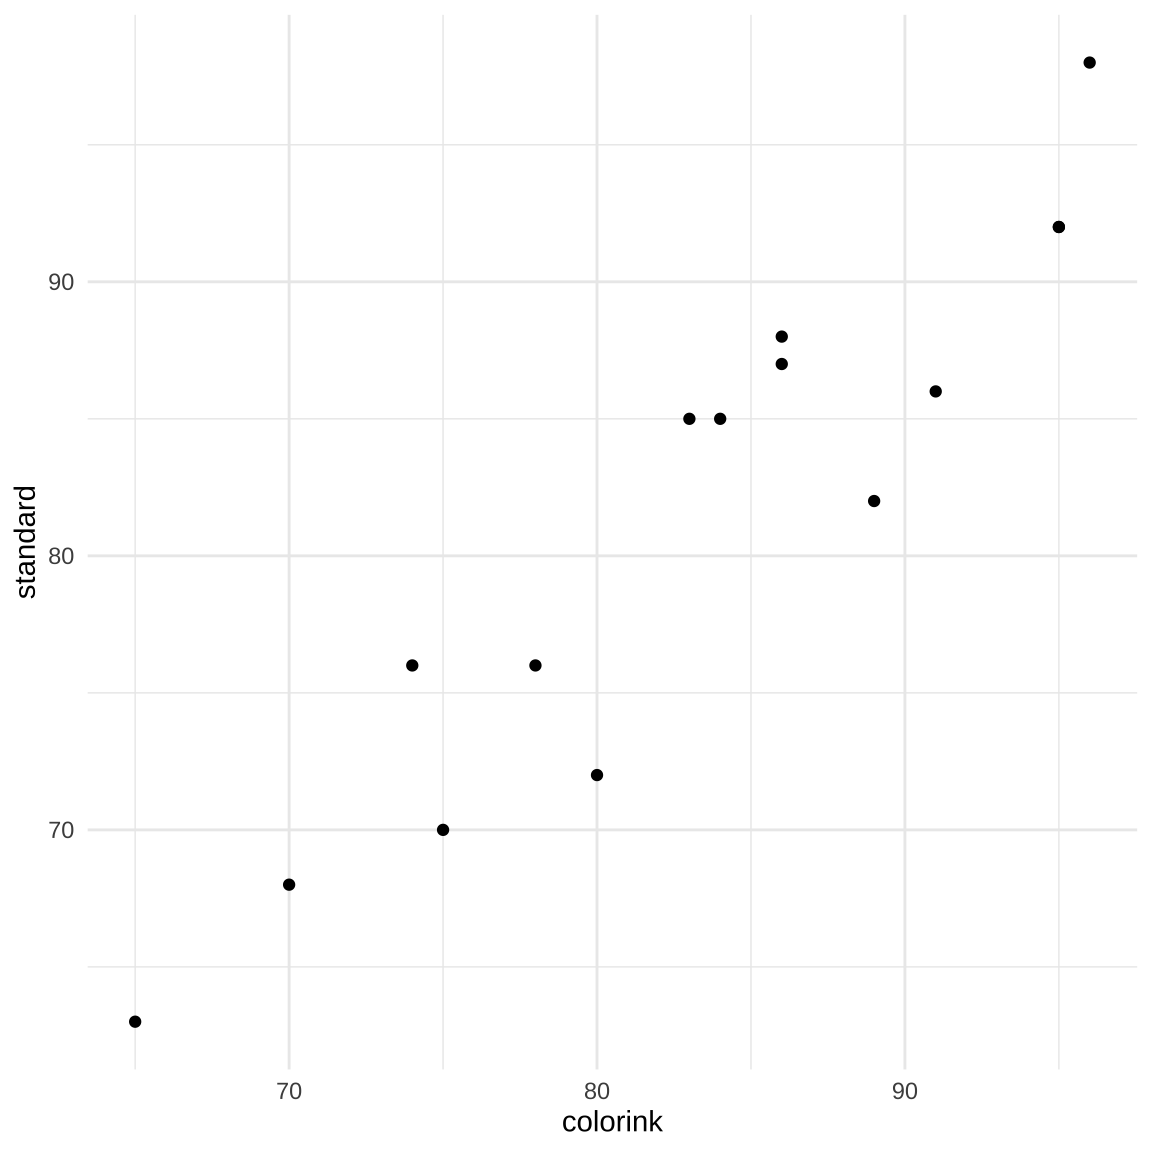
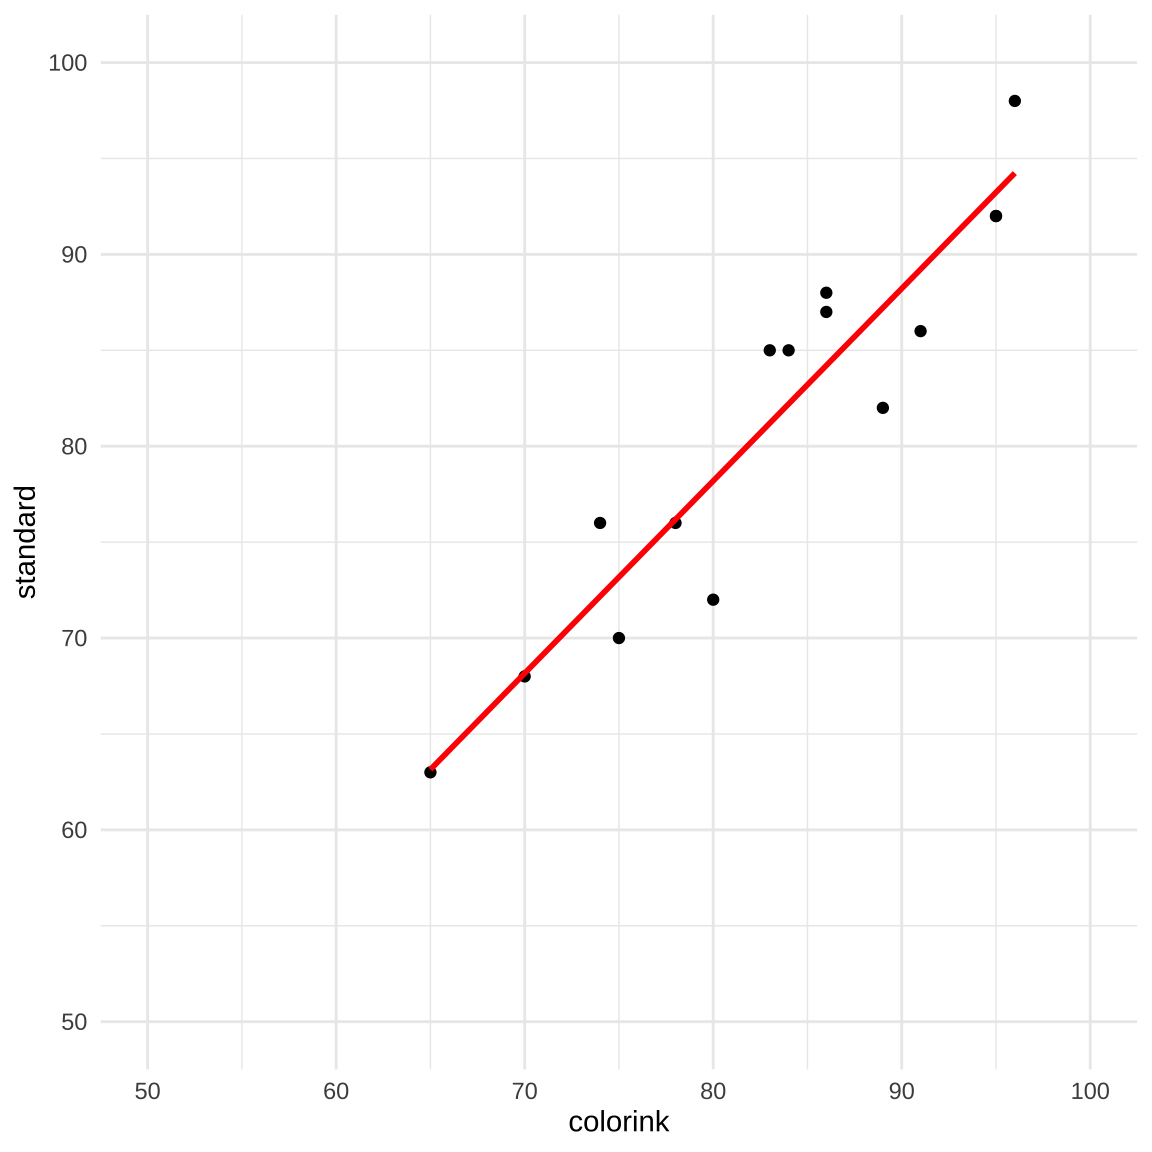
added text

diff --git a/docs/stat-modeling-outlier.html b/docs/stat-modeling-outlier.html
@@ -752,7 +752,7 @@ div.csl-indent {
 
 </header>
 
-<p><em>Letzte Änderung am 17. January 2024 um 21:02:34</em></p>
+<p><em>Letzte Änderung am 18. January 2024 um 18:51:18</em></p>
 <blockquote class="blockquote">
 <p><em>“You should be far more concentrated with your current trajectory than with your current results” — Atomic Habits’</em></p>
 </blockquote>
@@ -795,6 +795,12 @@ div.csl-indent {
 <blockquote class="blockquote">
 <p><em>” It may also make sense to report in an online supplement the details on every value or experiment removed as outliers, and to report in that supplement how the results would differ if outliers were not removed.”</em> — <span class="citation" data-cites="michel2020new">Michel u.&nbsp;a. (<a href="#ref-michel2020new" role="doc-biblioref">2020</a>)</span>, p.&nbsp;139</p>
 </blockquote>
+<p><span class="citation" data-cites="boukerche2020outlier">Boukerche u.&nbsp;a. (<a href="#ref-boukerche2020outlier" role="doc-biblioref">2020</a>)</span> und der wissenschaftlichen Veröffentlichung <a href="https://dl.acm.org/doi/abs/10.1145/3381028?casa_token=eXl2SvgkPNcAAAAA:Lgs0l4CXmw3mXyzSMVj9-_M2ry0F-lTyfsYUszWhkRJU9TNg5-JjzCaBaOeFSVifSCkvoyQdeuCvvQ">Outlier Detection: Methods, Models, and Classification</a></p>
+<p><span class="citation" data-cites="zimek2018there">Zimek und Filzmoser (<a href="#ref-zimek2018there" role="doc-biblioref">2018</a>)</span> und der Veröffentlichung <a href="https://findresearcher.sdu.dk/ws/files/153197807/There_and_Back_Again.pdf">There and back again: Outlier detection between statistical reasoning and data mining algorithms</a></p>
+<blockquote class="blockquote">
+<p><em>“‘an observation (or subset of observations) which appears to be inconsistent with the remainder of that set of data’. In about two decades of research in data mining many methods have been proposed to identify such outliers. Much attention has been spent on doing this ever faster, less attention has been attributed to the description ‘appears to’.”</em> — <span class="citation" data-cites="zimek2018there">Zimek und Filzmoser (<a href="#ref-zimek2018there" role="doc-biblioref">2018</a>)</span></p>
+</blockquote>
+<p><span class="citation" data-cites="sejr2021explainable">Sejr und Schneider-Kamp (<a href="#ref-sejr2021explainable" role="doc-biblioref">2021</a>)</span> mit Veröffentlichung <a href="https://www.sciencedirect.com/science/article/pii/S2666827021000864">Explainable outlier detection: What, for Whom and Why?</a></p>
 <p>Siehe dazu auch das Kapitel der <a href="stat-modeling-sensitivity.html">Sensitivitätsanalyse</a>. Nachdem wir Beobachtungen aus unseren Daten entfernt haben, ist es häufig üblich noch eine Sensitivitätsanalysen durchzuführen. Wir Vergleich dann das <em>gereinigte</em> Modell mit <em>anderen</em> Modellen. Oder wir wollen die Frage beantworten, was hat eigentlich mein Entfernen von Ausreißern am Ergebnis geändert? Habe ich eine wichtige Beobachtung rausgeschmissen? Am Ende musst dud ann natürlich enstscheiden, ob das Ergebnis ohne Ausreißer biologisch sinnvoller ist als das Experiment mit Ausreißern. Besonders wenn dann auch andere Ergbnisse rauskommen.</p>
 <div class="callout callout-style-default callout-tip callout-titled">
 <div class="callout-header d-flex align-content-center">
@@ -1498,15 +1504,16 @@ Anwendungsbeispiel: Ausreißer in einer simplen Regression
 <div class="sourceCode cell-code" id="cb37"><pre class="sourceCode r code-with-copy"><code class="sourceCode r"><span id="cb37-1"><a href="#cb37-1" aria-hidden="true" tabindex="-1"></a>standard_colorink_tbl <span class="sc">%&gt;%</span> </span>
 <span id="cb37-2"><a href="#cb37-2" aria-hidden="true" tabindex="-1"></a>  <span class="fu">ggplot</span>(<span class="fu">aes</span>(colorink, standard)) <span class="sc">+</span></span>
 <span id="cb37-3"><a href="#cb37-3" aria-hidden="true" tabindex="-1"></a>  <span class="fu">theme_minimal</span>() <span class="sc">+</span></span>
-<span id="cb37-4"><a href="#cb37-4" aria-hidden="true" tabindex="-1"></a>  <span class="co">#ylim(0, 100) + xlim(0, 100) +</span></span>
+<span id="cb37-4"><a href="#cb37-4" aria-hidden="true" tabindex="-1"></a>  <span class="fu">ylim</span>(<span class="dv">50</span>, <span class="dv">100</span>) <span class="sc">+</span> <span class="fu">xlim</span>(<span class="dv">50</span>, <span class="dv">100</span>) <span class="sc">+</span></span>
 <span id="cb37-5"><a href="#cb37-5" aria-hidden="true" tabindex="-1"></a>  <span class="fu">geom_point</span>() <span class="sc">+</span></span>
-<span id="cb37-6"><a href="#cb37-6" aria-hidden="true" tabindex="-1"></a>  <span class="fu">geom_line</span>(<span class="fu">aes</span>(<span class="at">y =</span> <span class="fu">predict</span>(fit)), <span class="at">color =</span> <span class="st">"red"</span>)</span>
+<span id="cb37-6"><a href="#cb37-6" aria-hidden="true" tabindex="-1"></a>  <span class="fu">geom_smooth</span>(<span class="at">method =</span> <span class="st">"lm"</span>, <span class="at">color =</span> <span class="st">"red"</span>, <span class="at">se =</span> <span class="cn">FALSE</span>)</span>
 <span id="cb37-7"><a href="#cb37-7" aria-hidden="true" tabindex="-1"></a></span>
 <span id="cb37-8"><a href="#cb37-8" aria-hidden="true" tabindex="-1"></a>clean_tbl <span class="sc">%&gt;%</span> </span>
 <span id="cb37-9"><a href="#cb37-9" aria-hidden="true" tabindex="-1"></a>  <span class="fu">ggplot</span>(<span class="fu">aes</span>(colorink, standard)) <span class="sc">+</span></span>
 <span id="cb37-10"><a href="#cb37-10" aria-hidden="true" tabindex="-1"></a>  <span class="fu">theme_minimal</span>() <span class="sc">+</span></span>
-<span id="cb37-11"><a href="#cb37-11" aria-hidden="true" tabindex="-1"></a>  <span class="co">#ylim(0, 100) + xlim(0, 100) +</span></span>
-<span id="cb37-12"><a href="#cb37-12" aria-hidden="true" tabindex="-1"></a>  <span class="fu">geom_point</span>() </span></code><button title="In die Zwischenablage kopieren" class="code-copy-button"><i class="bi"></i></button></pre></div>
+<span id="cb37-11"><a href="#cb37-11" aria-hidden="true" tabindex="-1"></a>  <span class="fu">ylim</span>(<span class="dv">50</span>, <span class="dv">100</span>) <span class="sc">+</span> <span class="fu">xlim</span>(<span class="dv">50</span>, <span class="dv">100</span>) <span class="sc">+</span></span>
+<span id="cb37-12"><a href="#cb37-12" aria-hidden="true" tabindex="-1"></a>  <span class="fu">geom_point</span>() <span class="sc">+</span></span>
+<span id="cb37-13"><a href="#cb37-13" aria-hidden="true" tabindex="-1"></a>  <span class="fu">geom_smooth</span>(<span class="at">method =</span> <span class="st">"lm"</span>, <span class="at">color =</span> <span class="st">"red"</span>, <span class="at">se =</span> <span class="cn">FALSE</span>)</span></code><button title="In die Zwischenablage kopieren" class="code-copy-button"><i class="bi"></i></button></pre></div>
 <div id="fig-app-compare-outlier-1" class="cell quarto-layout-panel">
 <figure class="figure">
 <div class="quarto-layout-row quarto-layout-valign-top">
@@ -1539,6 +1546,9 @@ Anwendungsbeispiel: Ausreißer in einer simplen Regression
 
 
 <div id="refs" class="references csl-bib-body hanging-indent" role="list">
+<div id="ref-boukerche2020outlier" class="csl-entry" role="listitem">
+Boukerche A, Zheng L, Alfandi O. 2020. Outlier detection: Methods, models, and classification. ACM Computing Surveys (CSUR) 53: 1–37.
+</div>
 <div id="ref-cook2021philosophy" class="csl-entry" role="listitem">
 Cook CN, Freeman AR, Liao JC, Mangiamele LA. 2021. The philosophy of outliers: reintegrating rare events into biological science. Integrative and Comparative Biology 61: 2191–2198.
 </div>
@@ -1550,6 +1560,12 @@ Lyons L. 2013. Discovering the Significance of 5 sigma. arXiv preprint arXiv:131
 </div>
 <div id="ref-michel2020new" class="csl-entry" role="listitem">
 Michel MC, Murphy T, Motulsky HJ. 2020. New author guidelines for displaying data and reporting data analysis and statistical methods in experimental biology. Journal of Pharmacology and Experimental Therapeutics 372: 136–147.
+</div>
+<div id="ref-sejr2021explainable" class="csl-entry" role="listitem">
+Sejr JH, Schneider-Kamp A. 2021. Explainable outlier detection: What, for Whom and Why? Machine Learning with Applications 6: 100172.
+</div>
+<div id="ref-zimek2018there" class="csl-entry" role="listitem">
+Zimek A, Filzmoser P. 2018. There and back again: Outlier detection between statistical reasoning and data mining algorithms. Wiley Interdisciplinary Reviews: Data Mining and Knowledge Discovery 8: e1280.
 </div>
 </div>
 </section>
